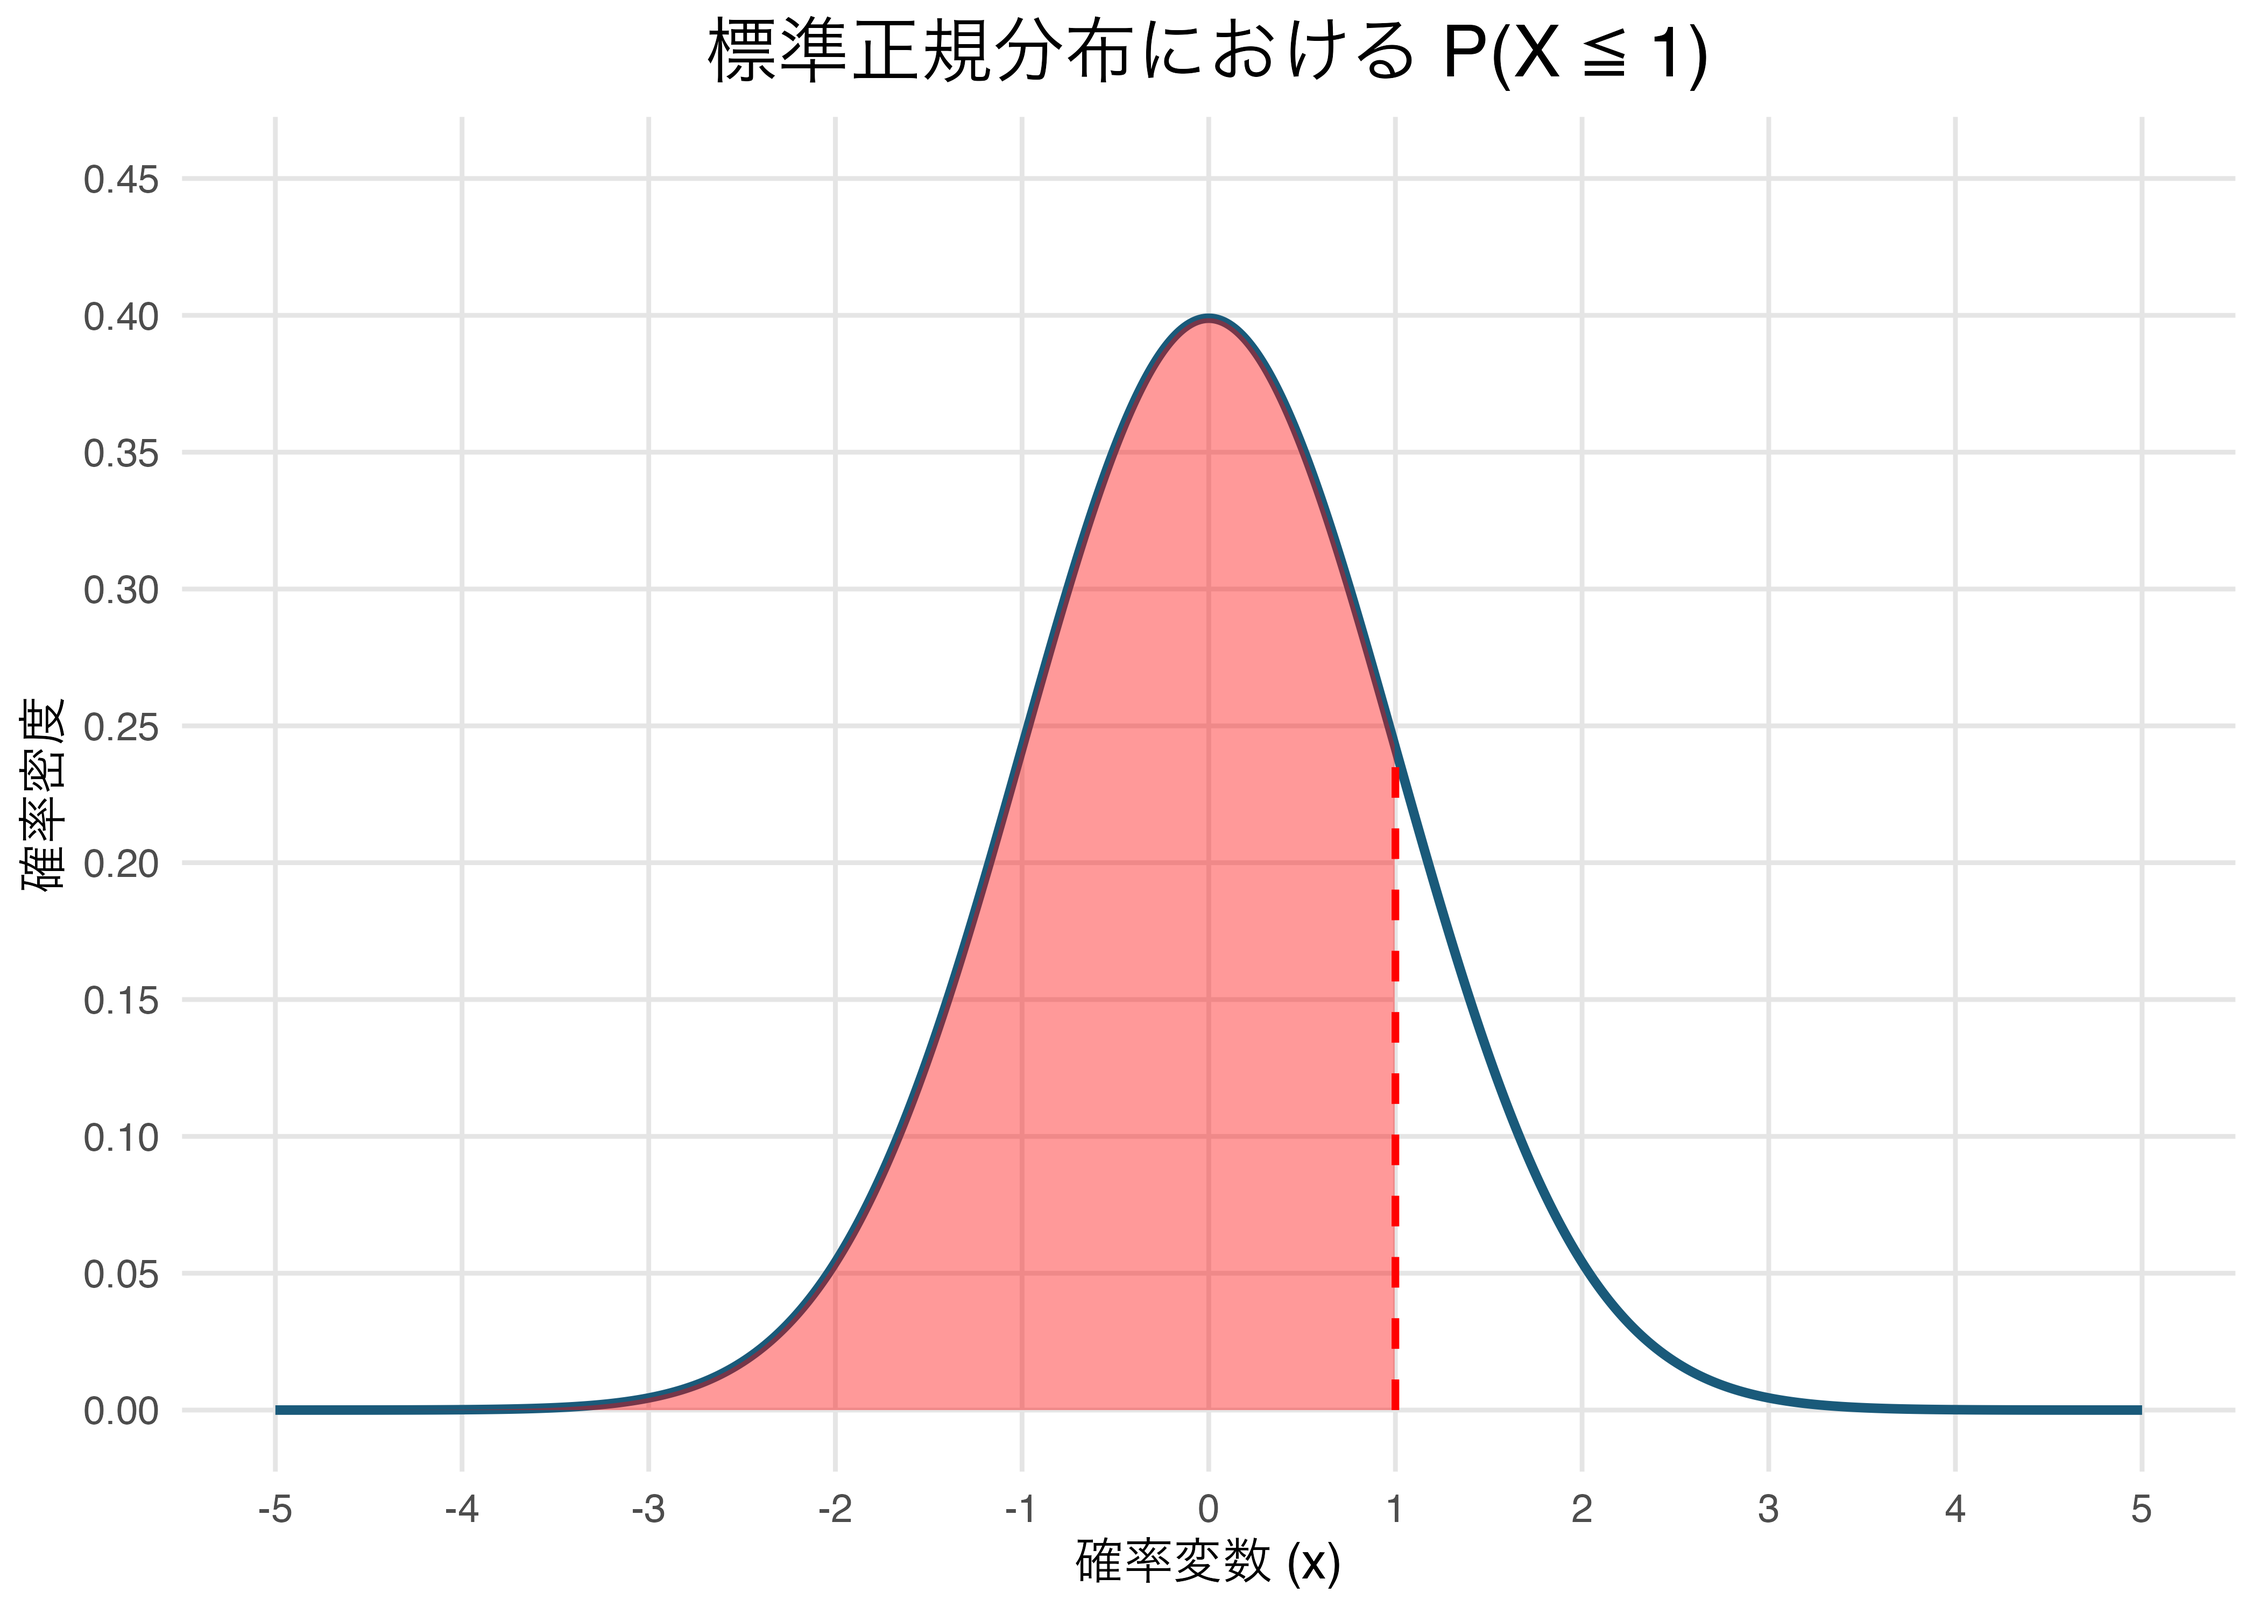
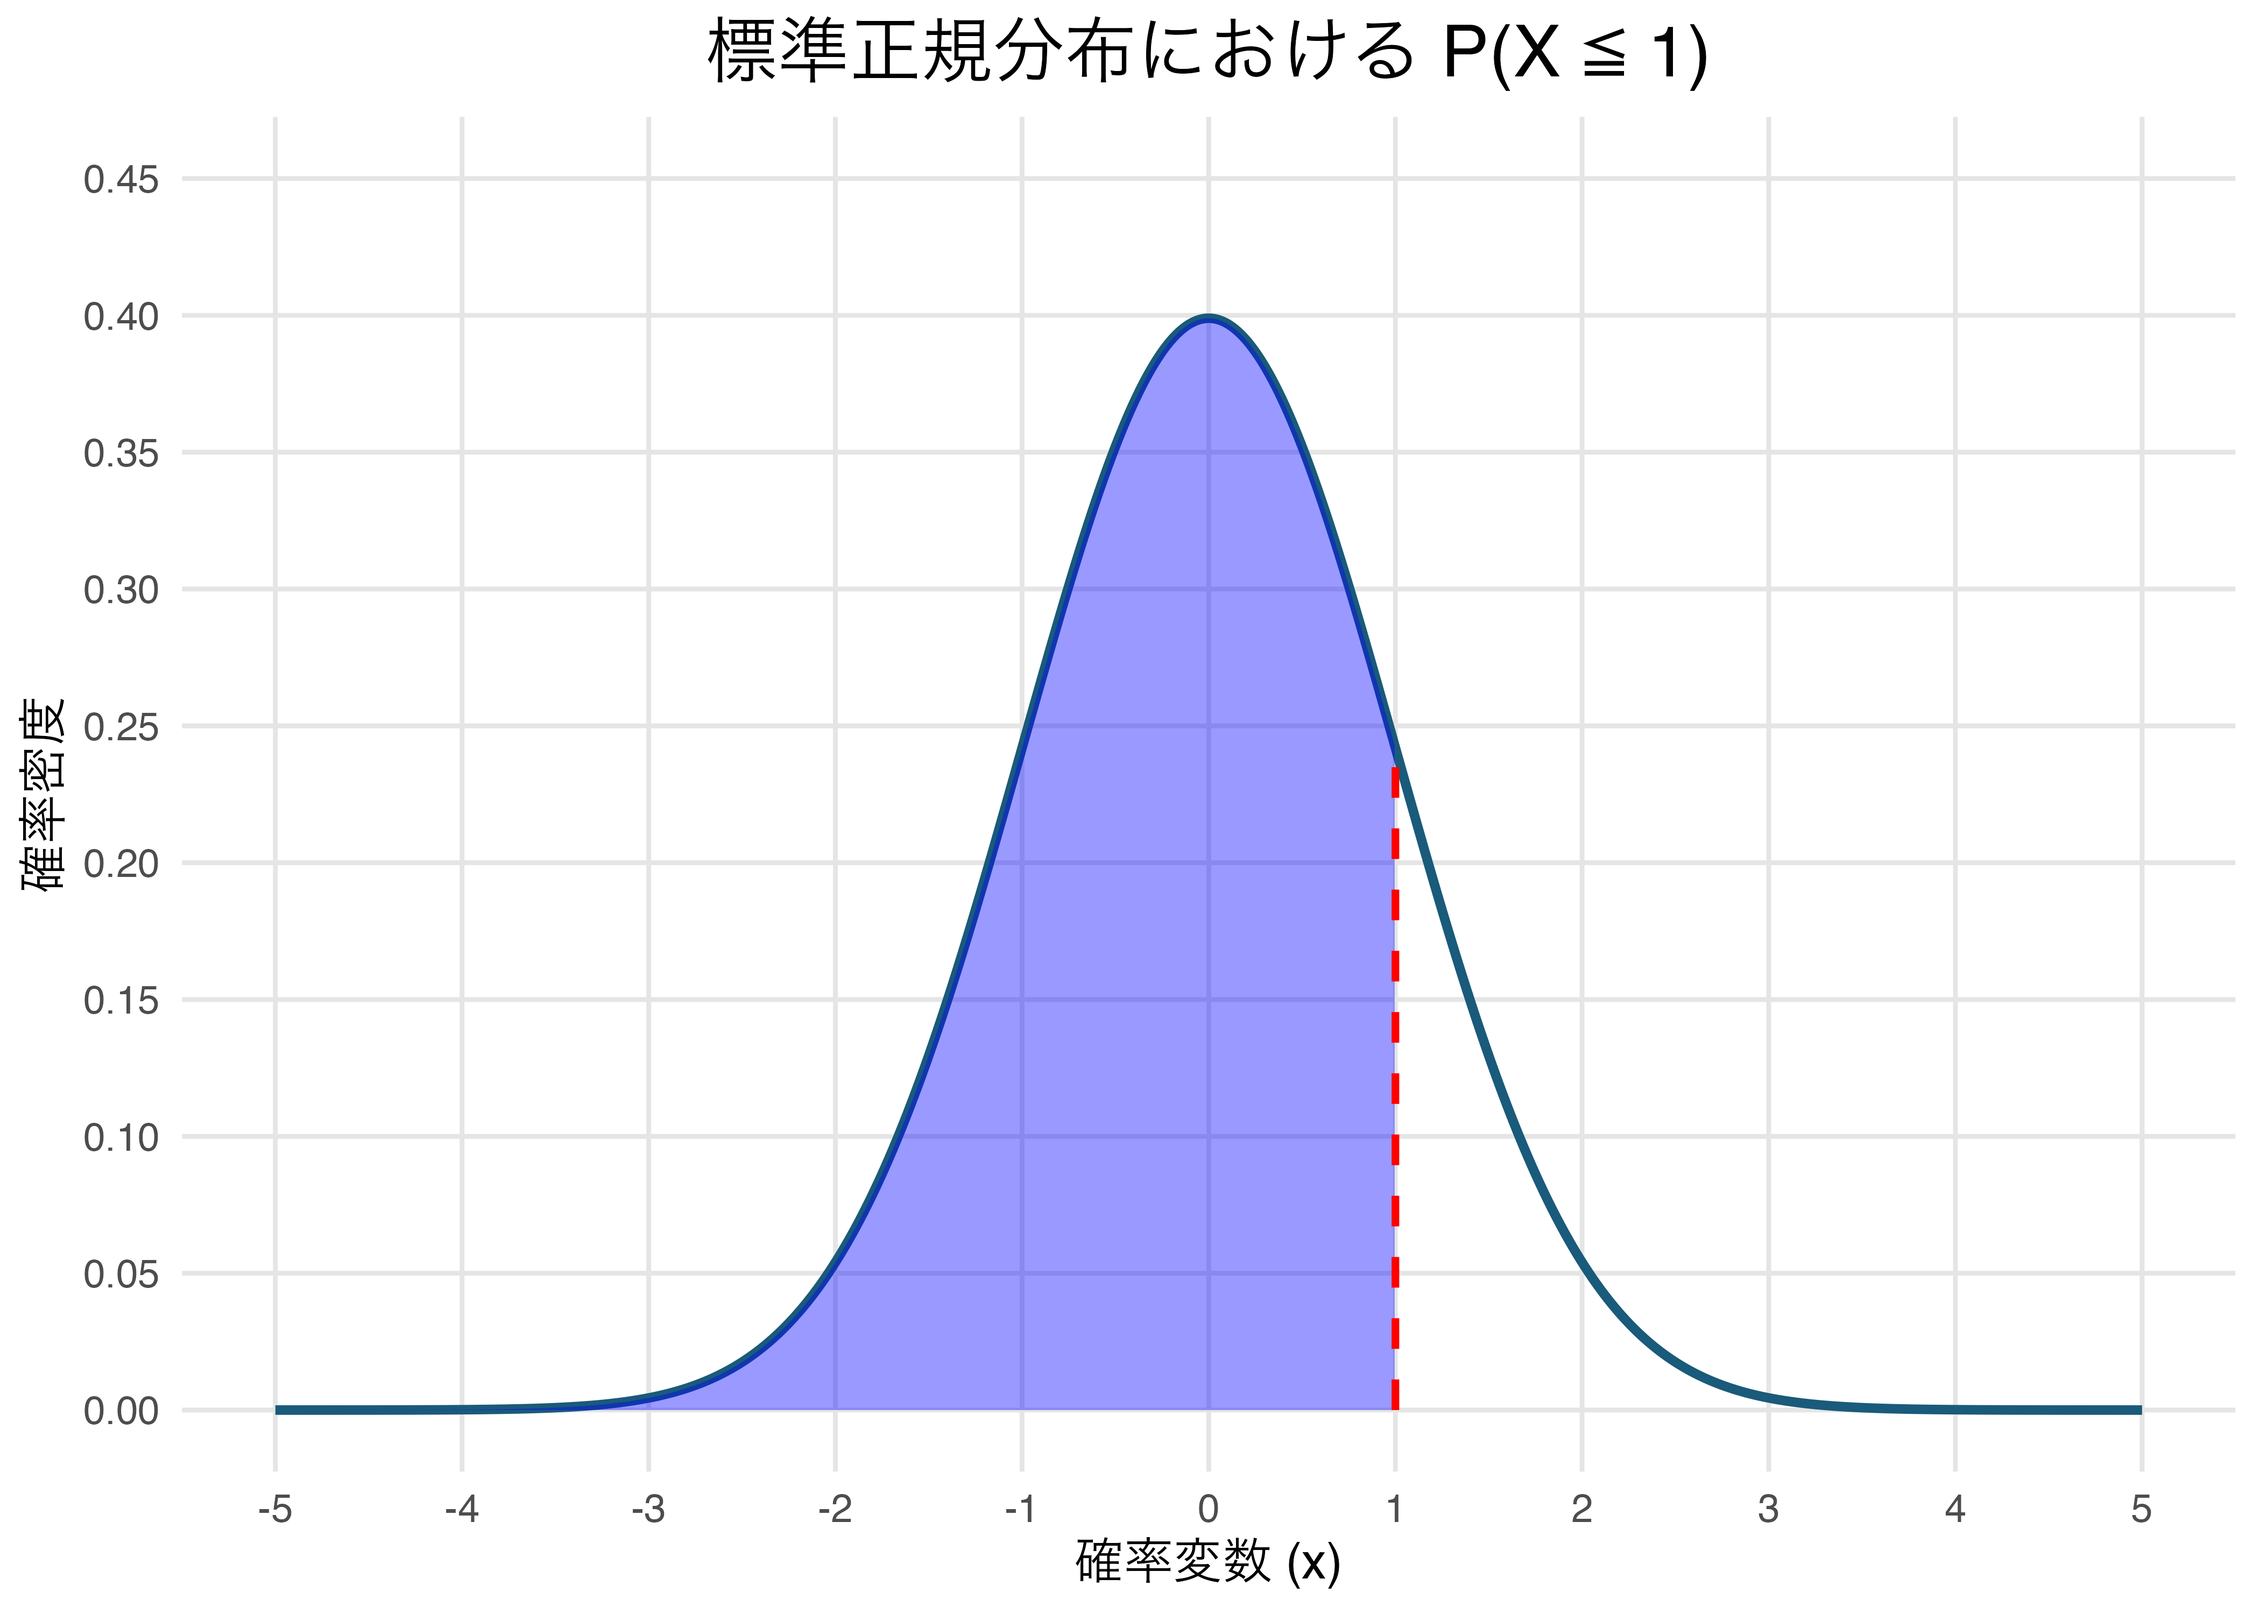
Built site for gh-pages

Changed region(s): [[0.2495, 0.186, 0.6238, 0.899]]

diff --git a/lecA11.html b/lecA11.html
@@ -477,7 +477,7 @@ N(60 + 40, 4^2 + 5^2) = N(100, 41)
 <ul>
 <li><strong>確率変数</strong></li>
 </ul></li>
-<li><span class="math inline">\(x\)</span> が <span class="math inline">\(1\)</span> 以下となる確率は右図の青い領域</li>
+<li><span class="math inline">\(x\)</span> が <span class="math inline">\(1\)</span> 以下となる確率は下図の青い領域</li>
 </ul>
 <p><strong>標準正規分布 <span class="math inline">\(N(0, 1)\)</span> における確率の可視化</strong></p>
 <div class="cell" data-layout-align="center">

diff --git a/index.html b/index.html
@@ -283,7 +283,7 @@ window.Quarto = {
     <div>
     <div class="quarto-title-meta-heading">Published</div>
     <div class="quarto-title-meta-contents">
-      <p class="date">2026年06月15日</p>
+      <p class="date">2026年06月24日</p>
     </div>
   </div>
   
